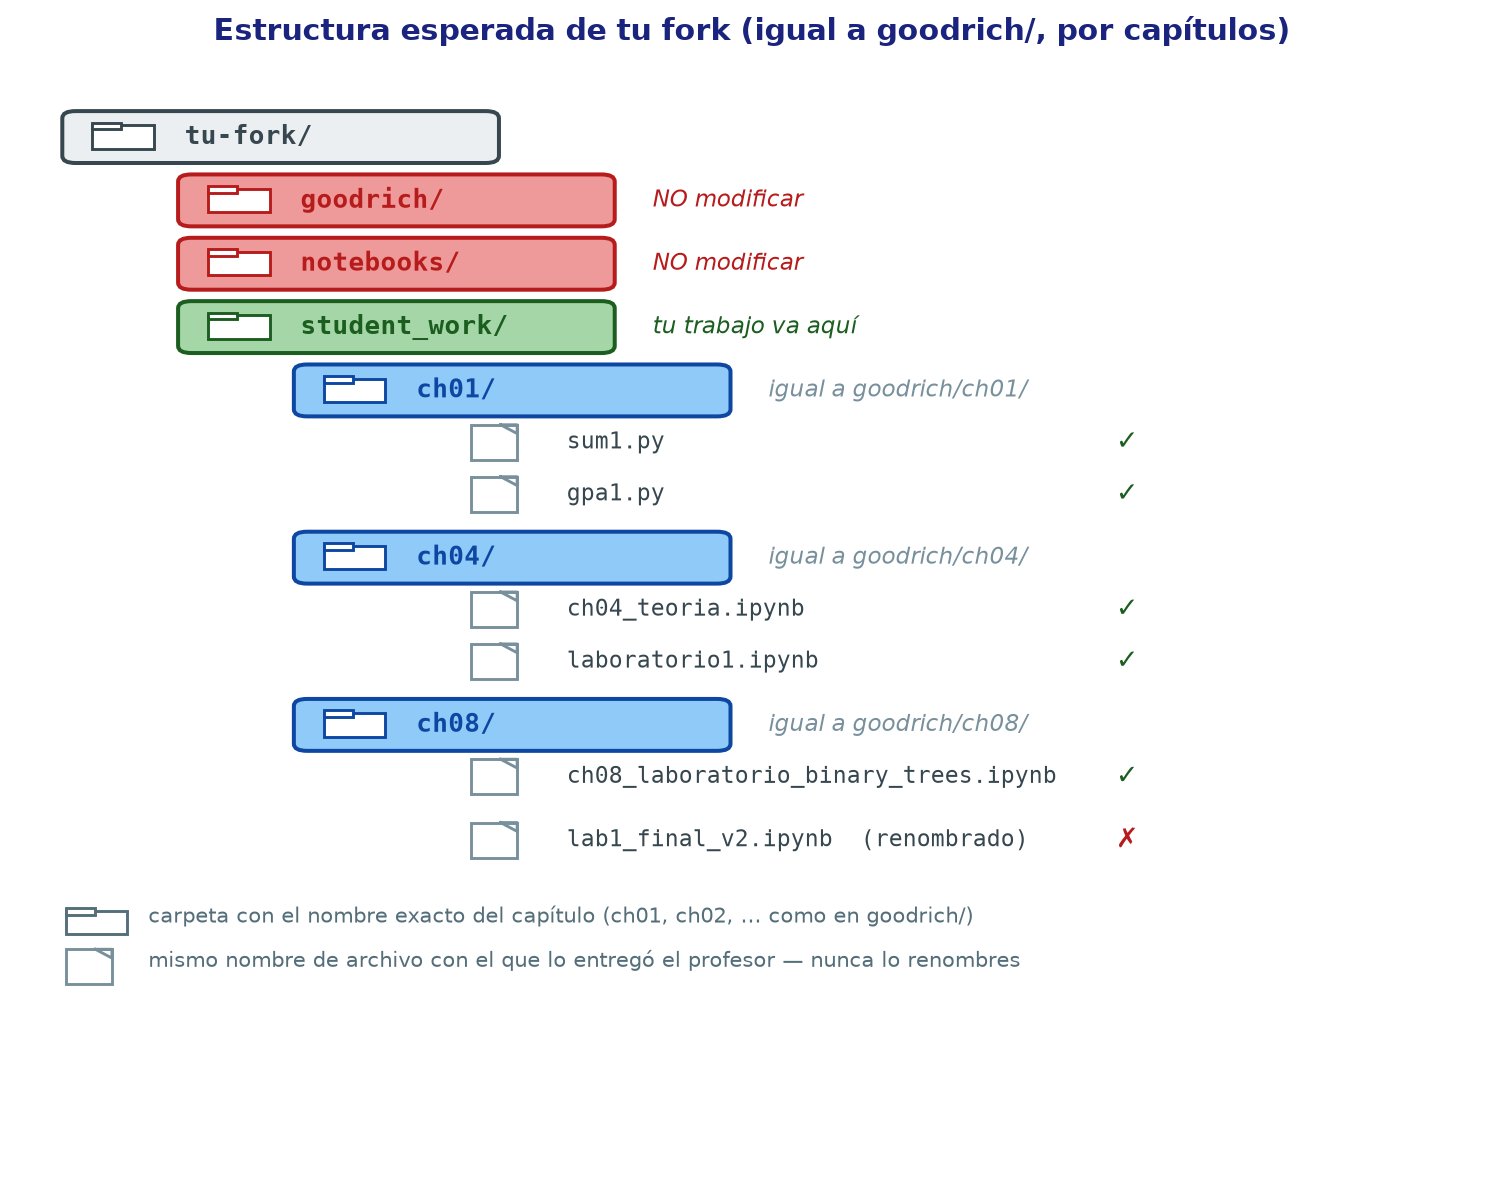
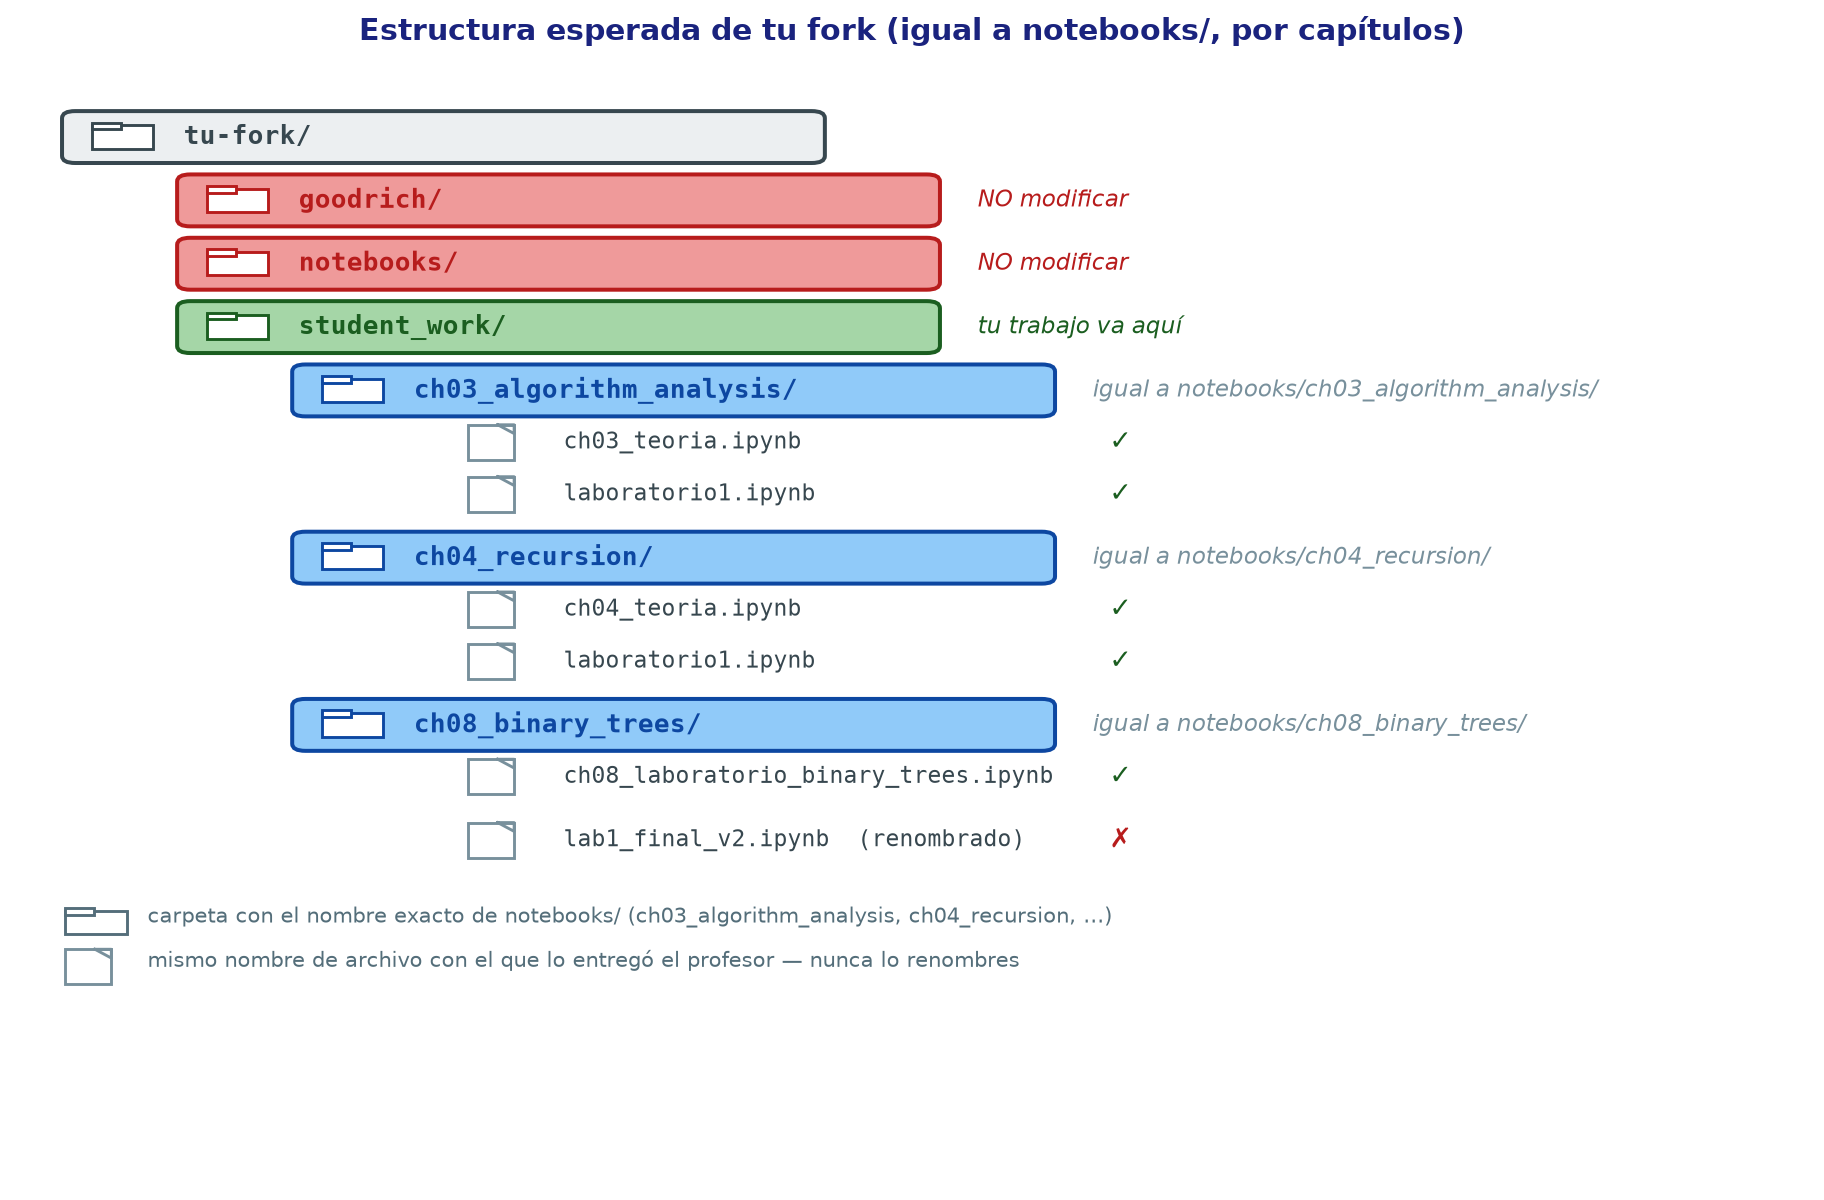
cambios para el orden

diff --git a/README.md b/README.md
@@ -71,9 +71,11 @@ traigas actualizaciones del profesor (Paso 5). Guarda **siempre** ahí.
 ### Cómo organizar `student_work/`
 
 Dentro de `student_work/` organiza tu trabajo **por capítulos, con el mismo nombre de carpeta que usa
-`goodrich/`** (`ch01/`, `ch02/`, `ch03/`... un número por cada capítulo del libro). Cuando resuelvas un
-laboratorio o ejercicio que el profesor entregó en `notebooks/`, cópialo a la carpeta del capítulo que
-corresponda **sin cambiarle el nombre al archivo** — el mismo nombre con el que lo entregó el profesor.
+`notebooks/`** (`ch03_algorithm_analysis/`, `ch04_recursion/`, `ch08_binary_trees/`...). Es literalmente
+copiar y pegar cada carpeta: cuando resuelvas un laboratorio o ejercicio que el profesor entregó en
+`notebooks/`, crea en `student_work/` una carpeta con el **nombre exacto** de esa carpeta de `notebooks/`
+y copia ahí el archivo **sin cambiarle el nombre**. No uses la numeración corta de `goodrich/` (`ch03/`,
+`ch04/`) — esa es la del código del libro, no la de tu entrega.
 
 Esto importa porque los scripts de calificación buscan tu trabajo por nombre de archivo. Si renombras un
 notebook (por ejemplo a `lab_final_v2.ipynb`), el corrector no lo va a encontrar y tu entrega puede quedar
